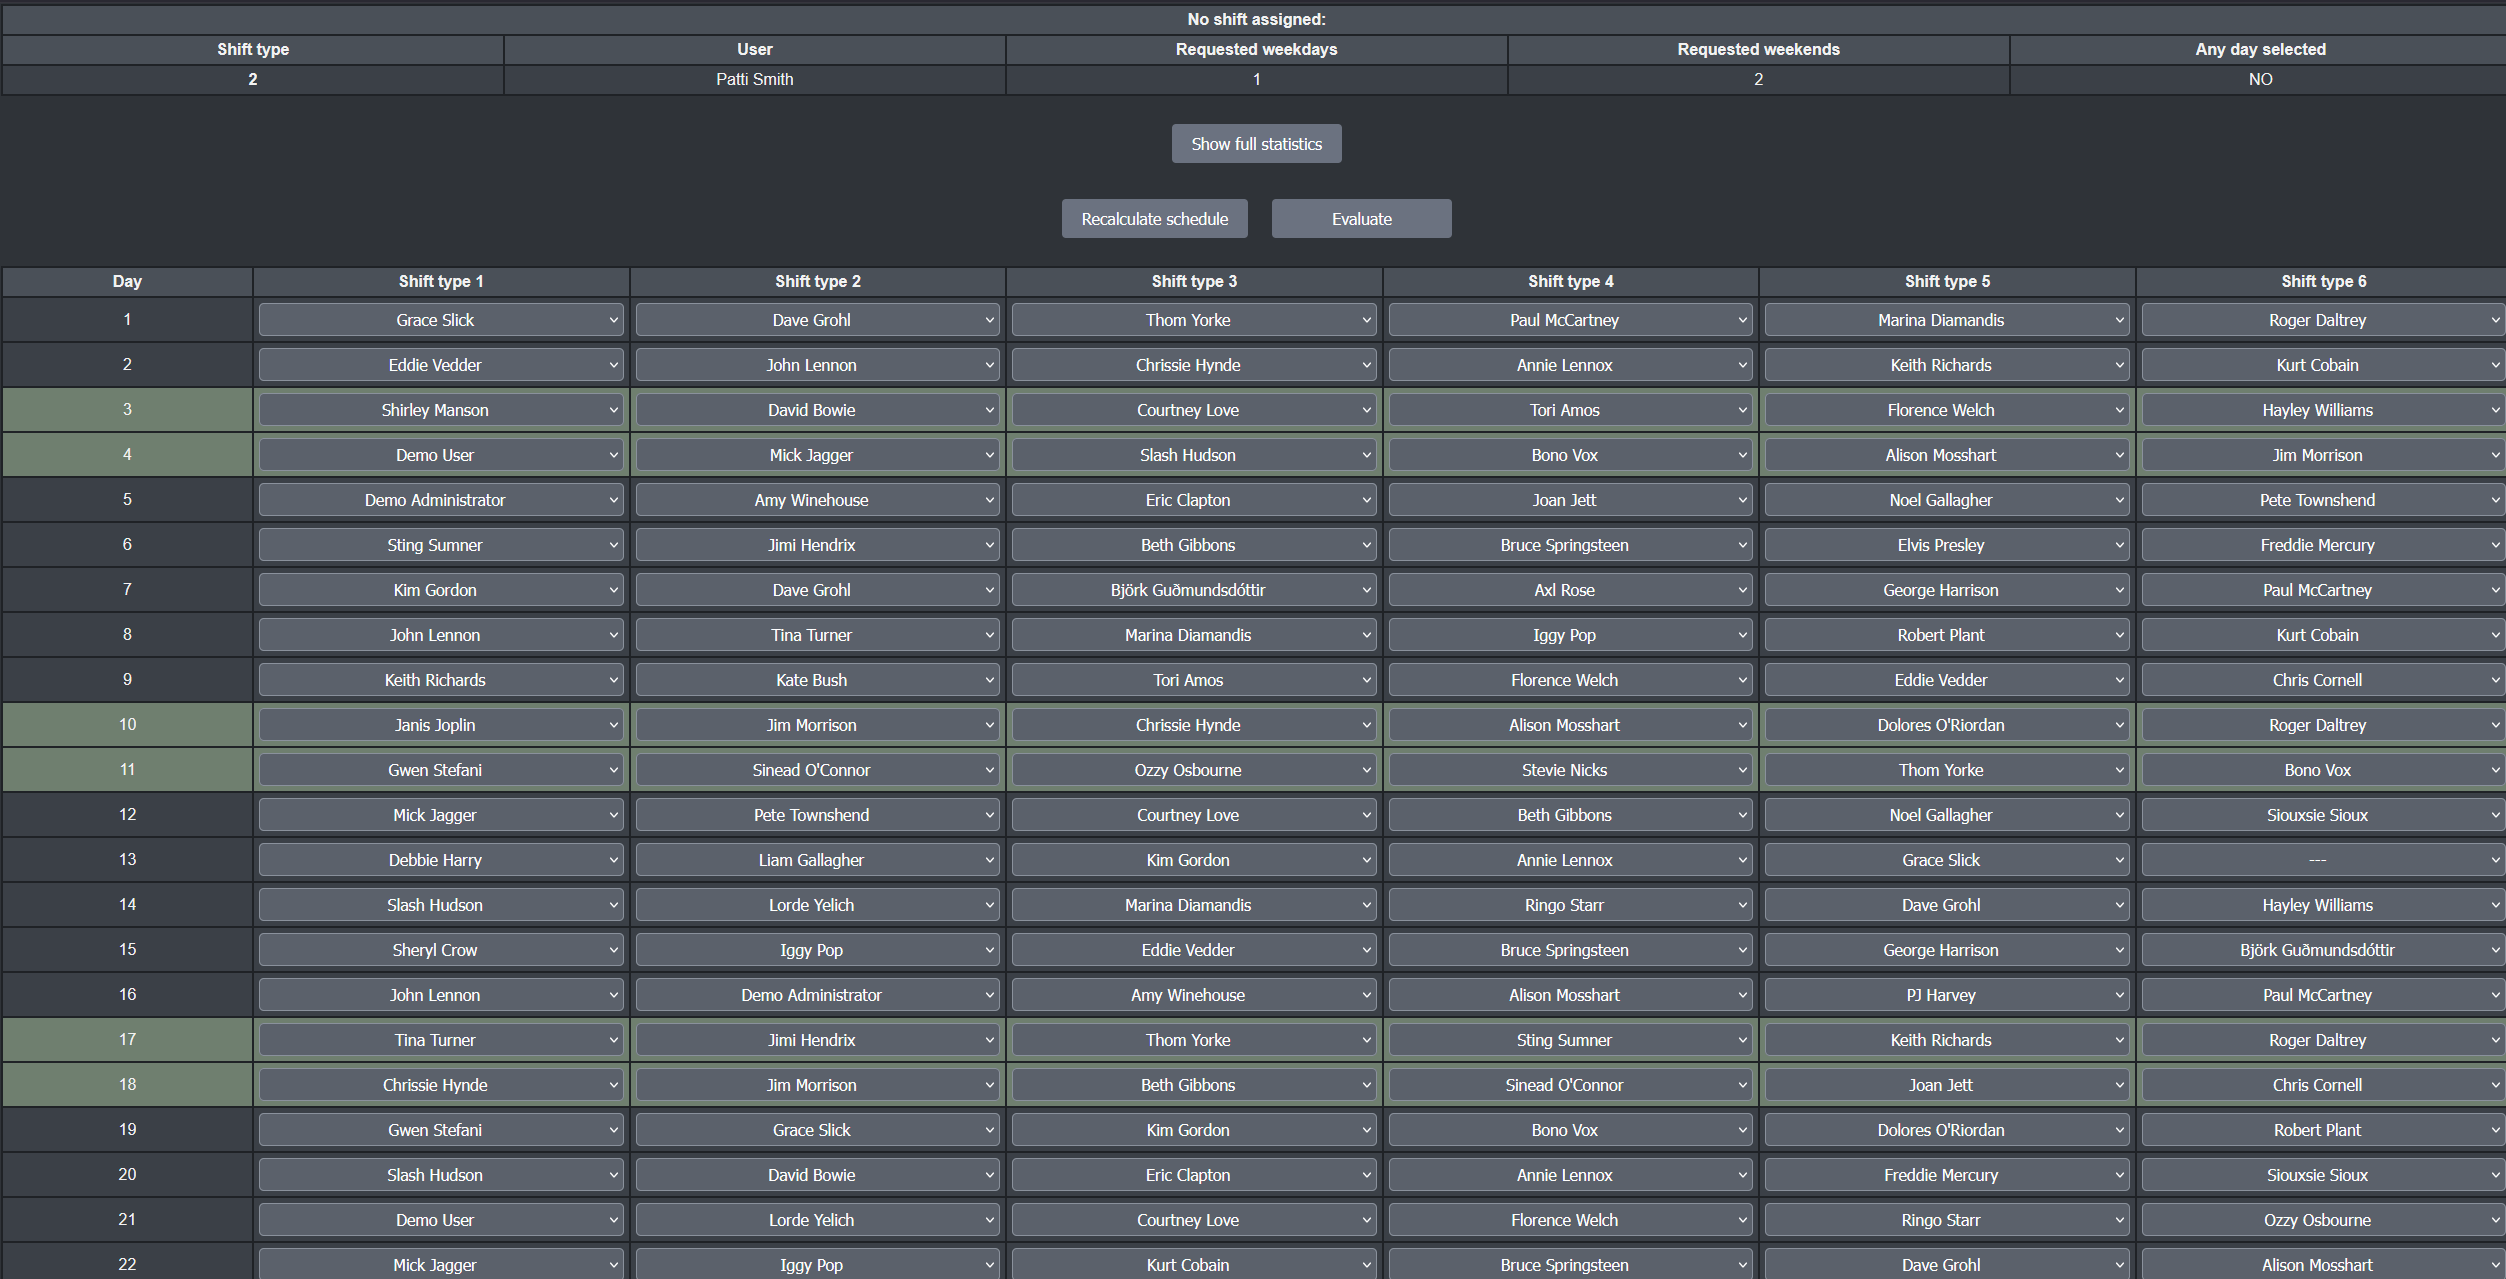
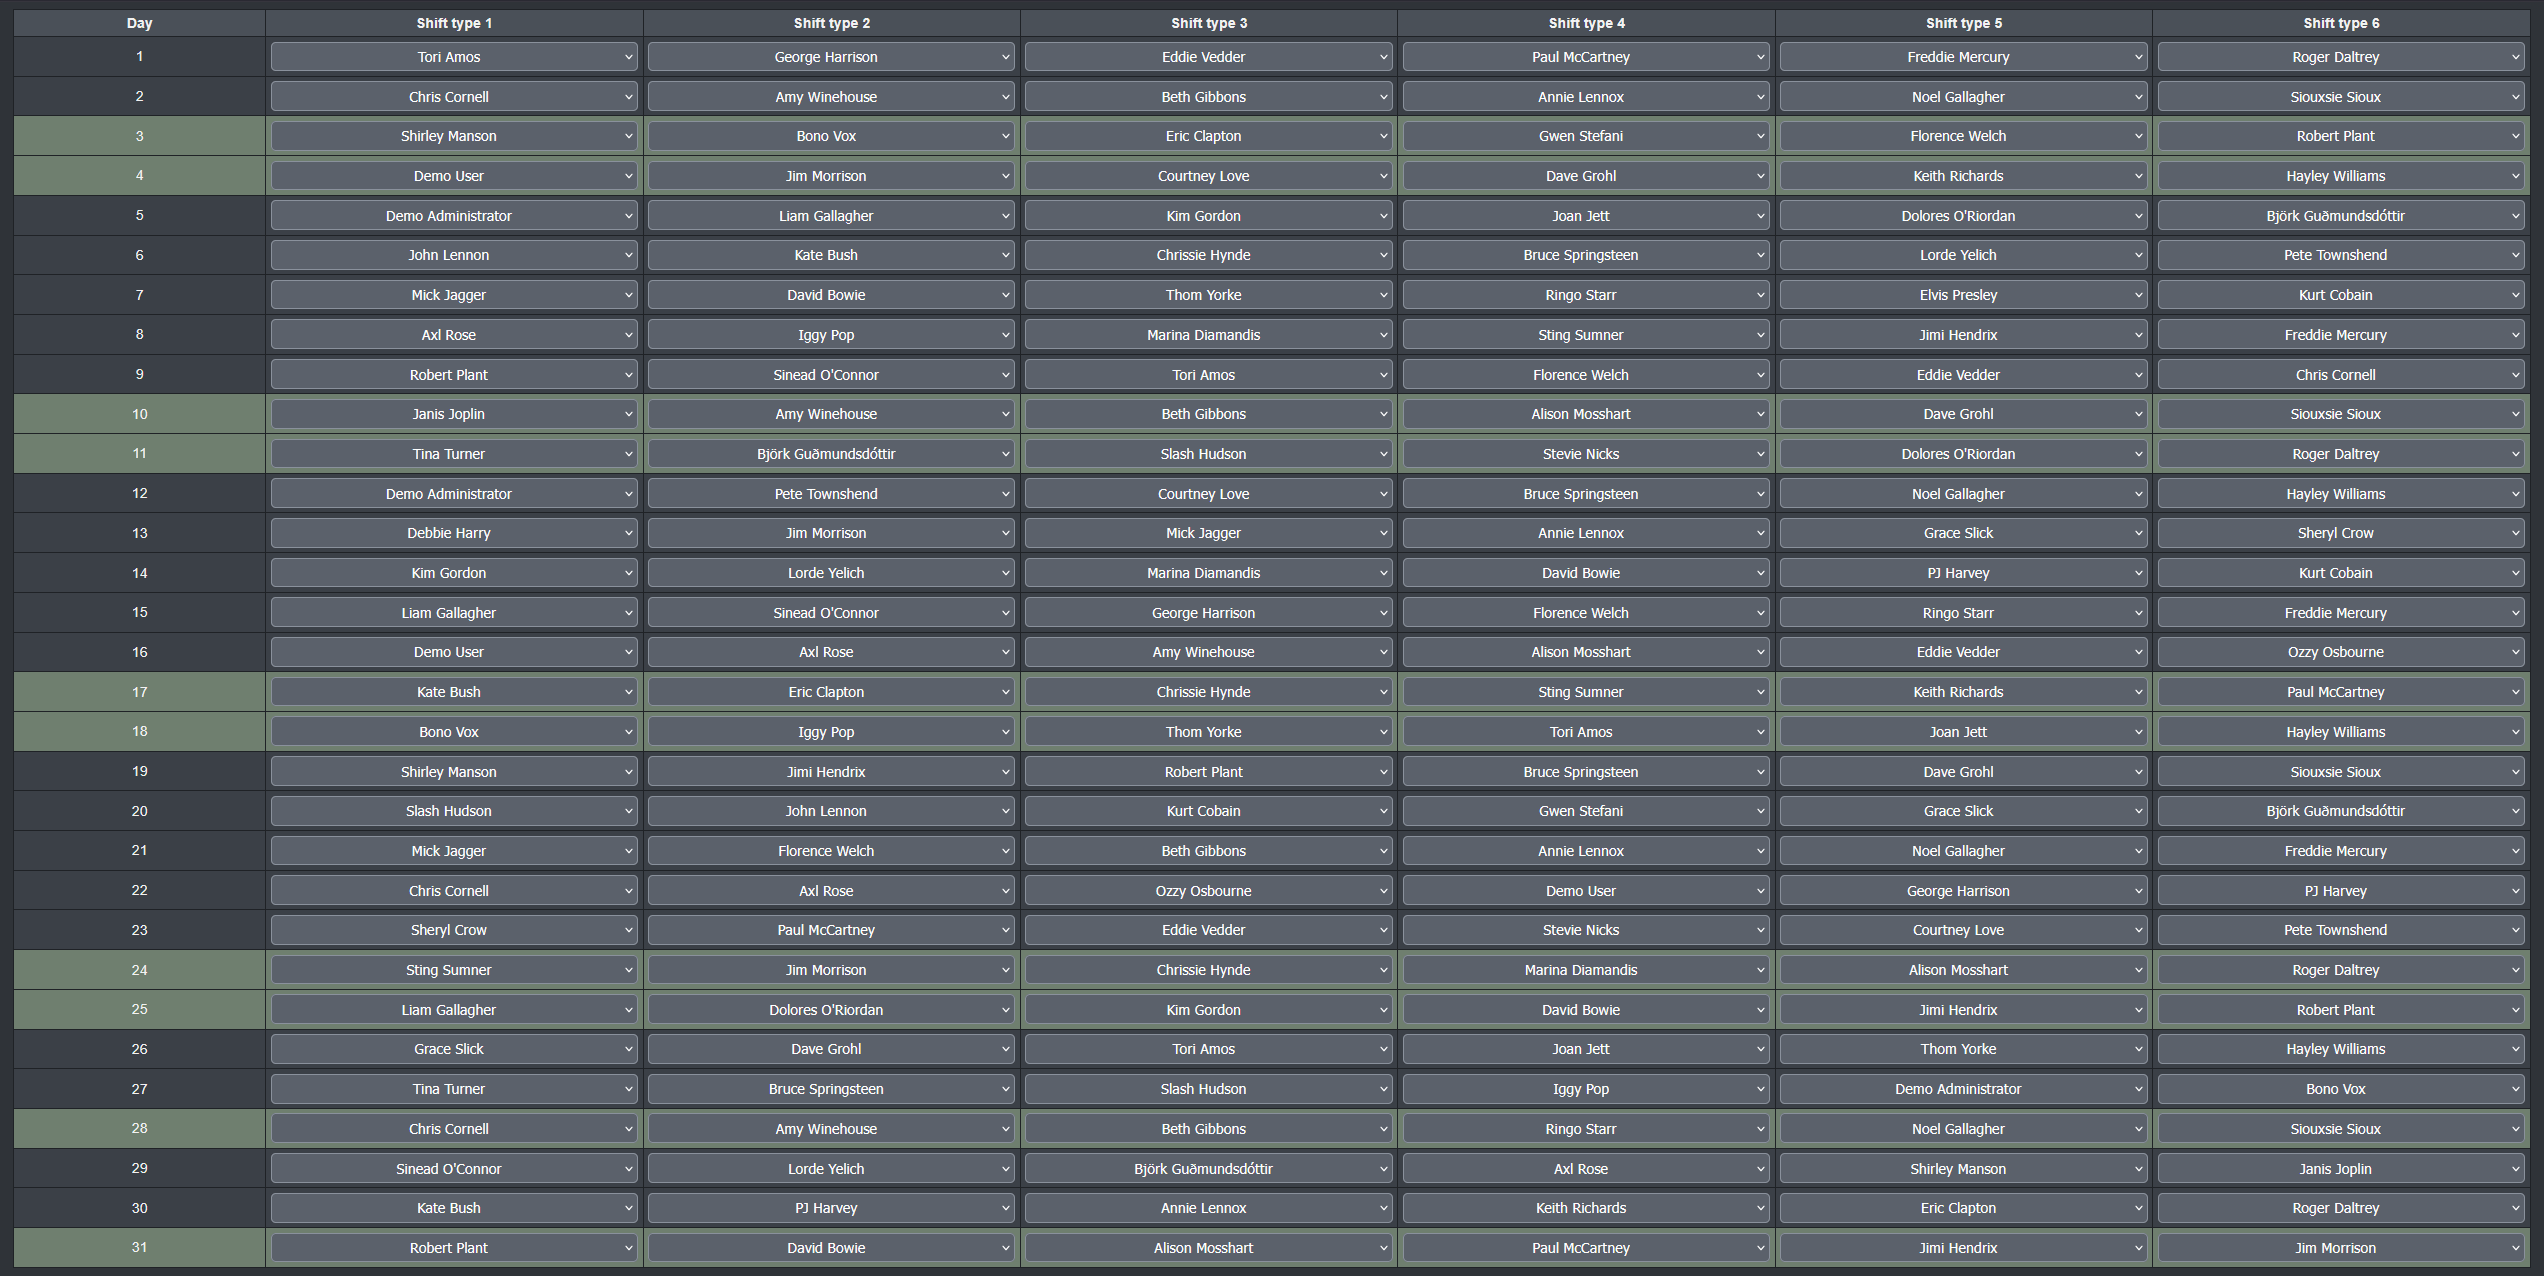
modified messages and screenshots

diff --git a/src/main/resources/templates/admin/planned_tasks.html b/src/main/resources/templates/admin/planned_tasks.html
@@ -279,7 +279,7 @@
     <section class="planned-task-section">
 
         <h2 class="centered" data-th-text="#{scheduledTasks.header.cleanup}">
-            Delete all requests
+            Delete all shift requests
         </h2>
 
         <table class="table-with-lines planned-task-table">
@@ -346,7 +346,7 @@
                 <tr>
                     <td>
                         <label for="cleanupDay" data-th-text="#{scheduledTasks.cleanup.day}">
-                            Delete all requests on day:
+                            Delete all shift requests on day:
                         </label>
                     </td>
                     <td>

diff --git a/src/main/resources/templates/admin/adminIndex.html b/src/main/resources/templates/admin/adminIndex.html
@@ -96,7 +96,7 @@
 
             <h3 class="centered"
                 data-th-text="#{scheduledTasks.header.cleanup}">
-                Delete all requests
+                Delete all shift requests
             </h3>
 
             <table class="table-with-lines planned-task-table">

diff --git a/src/main/java/com/richardbrenkus/hospitalshiftscheduler/entity/ReminderEmailOutbox.java b/src/main/java/com/richardbrenkus/hospitalshiftscheduler/entity/ReminderEmailOutbox.java
@@ -11,37 +11,7 @@ import java.time.*;
 import java.util.UUID;
 
 @Entity
-@Table(
-        name = "reminder_email_outbox",
-        uniqueConstraints = {
-                @UniqueConstraint(
-                        name = "uk_reminder_email_outbox_event_id",
-                        columnNames = "event_id"
-                ),
-                @UniqueConstraint(
-                        name = "uk_reminder_email_outbox_idempotency_key",
-                        columnNames = "idempotency_key"
-                ),
-                @UniqueConstraint(
-                        name = "uk_reminder_email_outbox_occurrence_recipient",
-                        columnNames = {
-                                "source_task_id",
-                                "scheduled_execution_time",
-                                "recipient_user_id"
-                        }
-                )
-        },
-        indexes = {
-                @Index(
-                        name = "idx_reminder_email_outbox_dispatch",
-                        columnList = "status,next_attempt_at"
-                ),
-                @Index(
-                        name = "idx_reminder_email_outbox_claim",
-                        columnList = "status,claimed_at"
-                )
-        }
-)
+@Table(name = "reminder_email_outbox", uniqueConstraints = {@UniqueConstraint(name = "uk_reminder_email_outbox_event_id", columnNames = "event_id"), @UniqueConstraint(name = "uk_reminder_email_outbox_idempotency_key", columnNames = "idempotency_key"), @UniqueConstraint(name = "uk_reminder_email_outbox_occurrence_recipient", columnNames = {"source_task_id", "scheduled_execution_time", "recipient_user_id"})}, indexes = {@Index(name = "idx_reminder_email_outbox_dispatch", columnList = "status,next_attempt_at"), @Index(name = "idx_reminder_email_outbox_claim", columnList = "status,claimed_at")})
 @Check(constraints = "attempt_count >= 0")
 @Getter
 @NoArgsConstructor(access = AccessLevel.PROTECTED)
@@ -116,16 +86,7 @@ public class ReminderEmailOutbox {
     @Column(name = "version", nullable = false)
     private Long version;
 
-    public static ReminderEmailOutbox pending(
-            Long sourceTaskId,
-            Instant scheduledExecutionTime,
-            LocalDate finalSubmissionDay,
-            Instant finalSubmissionDeadline,
-            Long recipientUserId,
-            String recipientEmail,
-            String recipientDisplayName,
-            Instant now
-    ) {
+    public static ReminderEmailOutbox pending(Long sourceTaskId, Instant scheduledExecutionTime, LocalDate finalSubmissionDay, Instant finalSubmissionDeadline, Long recipientUserId, String recipientEmail, String recipientDisplayName, Instant now) {
         requireNonNull(sourceTaskId, "sourceTaskId");
         requireNonNull(scheduledExecutionTime, "scheduledExecutionTime");
         requireNonNull(finalSubmissionDay, "finalSubmissionDay");
@@ -183,16 +144,10 @@ public class ReminderEmailOutbox {
     }
 
     public boolean isOwnedByClaim(String expectedClaimToken) {
-        return status == ReminderEmailOutboxStatus.PROCESSING
-                && expectedClaimToken != null
-                && !expectedClaimToken.isBlank()
-                && expectedClaimToken.equals(claimToken);
+        return status == ReminderEmailOutboxStatus.PROCESSING && expectedClaimToken != null && !expectedClaimToken.isBlank() && expectedClaimToken.equals(claimToken);
     }
 
-    public void markSent(
-            String expectedClaimToken,
-            Instant now
-    ) {
+    public void markSent(String expectedClaimToken, Instant now) {
         requireNonNegativeAttemptCount();
         requireNonNull(now, "now");
         requireCurrentClaim(expectedClaimToken);
@@ -205,11 +160,7 @@ public class ReminderEmailOutbox {
         lastFailureReason = null;
     }
 
-    public void markFailed(
-            String expectedClaimToken,
-            String safeFailureReason,
-            Instant retryAt
-    ) {
+    public void markFailed(String expectedClaimToken, String safeFailureReason, Instant retryAt) {
         requireNonNegativeAttemptCount();
         requireNonNull(retryAt, "retryAt");
         requireCurrentClaim(expectedClaimToken);
@@ -223,11 +174,7 @@ public class ReminderEmailOutbox {
         clearClaim();
     }
 
-    public void markDead(
-            String expectedClaimToken,
-            String safeFailureReason,
-            Instant now
-    ) {
+    public void markDead(String expectedClaimToken, String safeFailureReason, Instant now) {
         requireNonNegativeAttemptCount();
         requireNonNull(now, "now");
         requireCurrentClaim(expectedClaimToken);
@@ -246,18 +193,12 @@ public class ReminderEmailOutbox {
      * This closes the stale-claim recovery edge case in which a row has
      * already reached the configured maximum number of attempts.
      */
-    public void markDeadFromDispatchableState(
-            String safeFailureReason,
-            Instant now
-    ) {
+    public void markDeadFromDispatchableState(String safeFailureReason, Instant now) {
         requireNonNegativeAttemptCount();
         requireNonNull(now, "now");
 
-        if (status != ReminderEmailOutboxStatus.PENDING
-                && status != ReminderEmailOutboxStatus.FAILED) {
-            throw new IllegalStateException(
-                    "Only PENDING or FAILED jobs can be terminated without a claim"
-            );
+        if (status != ReminderEmailOutboxStatus.PENDING && status != ReminderEmailOutboxStatus.FAILED) {
+            throw new IllegalStateException("Only PENDING or FAILED jobs can be terminated without a claim");
         }
 
         status = ReminderEmailOutboxStatus.DEAD;
@@ -268,10 +209,7 @@ public class ReminderEmailOutbox {
         clearClaim();
     }
 
-    public void releaseStaleClaim(
-            String safeFailureReason,
-            Instant retryAt
-    ) {
+    public void releaseStaleClaim(String safeFailureReason, Instant retryAt) {
         requireNonNegativeAttemptCount();
         requireNonNull(retryAt, "retryAt");
 
@@ -291,28 +229,19 @@ public class ReminderEmailOutbox {
 
     private void requireCurrentClaim(String expectedClaimToken) {
         if (!isOwnedByClaim(expectedClaimToken)) {
-            throw new IllegalStateException(
-                    "The outbox job is not owned by the supplied claim token"
-            );
+            throw new IllegalStateException("The outbox job is not owned by the supplied claim token");
         }
     }
 
-    private void requireNotBeforeClaim(
-            Instant value,
-            String valueDescription
-    ) {
+    private void requireNotBeforeClaim(Instant value, String valueDescription) {
         if (claimedAt != null && value.isBefore(claimedAt)) {
-            throw new IllegalArgumentException(
-                    valueDescription + " must not precede claim time"
-            );
+            throw new IllegalArgumentException(valueDescription + " must not precede claim time");
         }
     }
 
     private void requireNonNegativeAttemptCount() {
         if (attemptCount < 0) {
-            throw new IllegalStateException(
-                    "attemptCount must not be negative"
-            );
+            throw new IllegalStateException("attemptCount must not be negative");
         }
     }
 
@@ -324,31 +253,21 @@ public class ReminderEmailOutbox {
 
     private static String normalizeRequiredEmail(String recipientEmail) {
         if (recipientEmail == null || recipientEmail.isBlank()) {
-            throw new IllegalArgumentException(
-                    "recipientEmail must not be blank"
-            );
+            throw new IllegalArgumentException("recipientEmail must not be blank");
         }
 
         String normalizedEmail = recipientEmail.trim();
 
         if (normalizedEmail.length() > MAXIMUM_EMAIL_LENGTH) {
-            throw new IllegalArgumentException(
-                    "recipientEmail must not exceed 320 characters"
-            );
+            throw new IllegalArgumentException("recipientEmail must not exceed 320 characters");
         }
 
         return normalizedEmail;
     }
 
-    private static String truncateRequiredIdentifier(
-            String value,
-            int maximumLength,
-            String fieldName
-    ) {
+    private static String truncateRequiredIdentifier(String value, int maximumLength, String fieldName) {
         if (value == null || value.isBlank()) {
-            throw new IllegalArgumentException(
-                    fieldName + " must not be blank"
-            );
+            throw new IllegalArgumentException(fieldName + " must not be blank");
         }
 
         return truncateTrimmed(value, maximumLength);
@@ -373,16 +292,12 @@ public class ReminderEmailOutbox {
     private static String truncateTrimmed(String value, int maximumLength) {
         String trimmed = value.trim();
 
-        return trimmed.length() <= maximumLength
-                ? trimmed
-                : trimmed.substring(0, maximumLength);
+        return trimmed.length() <= maximumLength ? trimmed : trimmed.substring(0, maximumLength);
     }
 
     private static void requireNonNull(Object value, String fieldName) {
         if (value == null) {
-            throw new IllegalArgumentException(
-                    fieldName + " must not be null"
-            );
+            throw new IllegalArgumentException(fieldName + " must not be null");
         }
     }
 }
